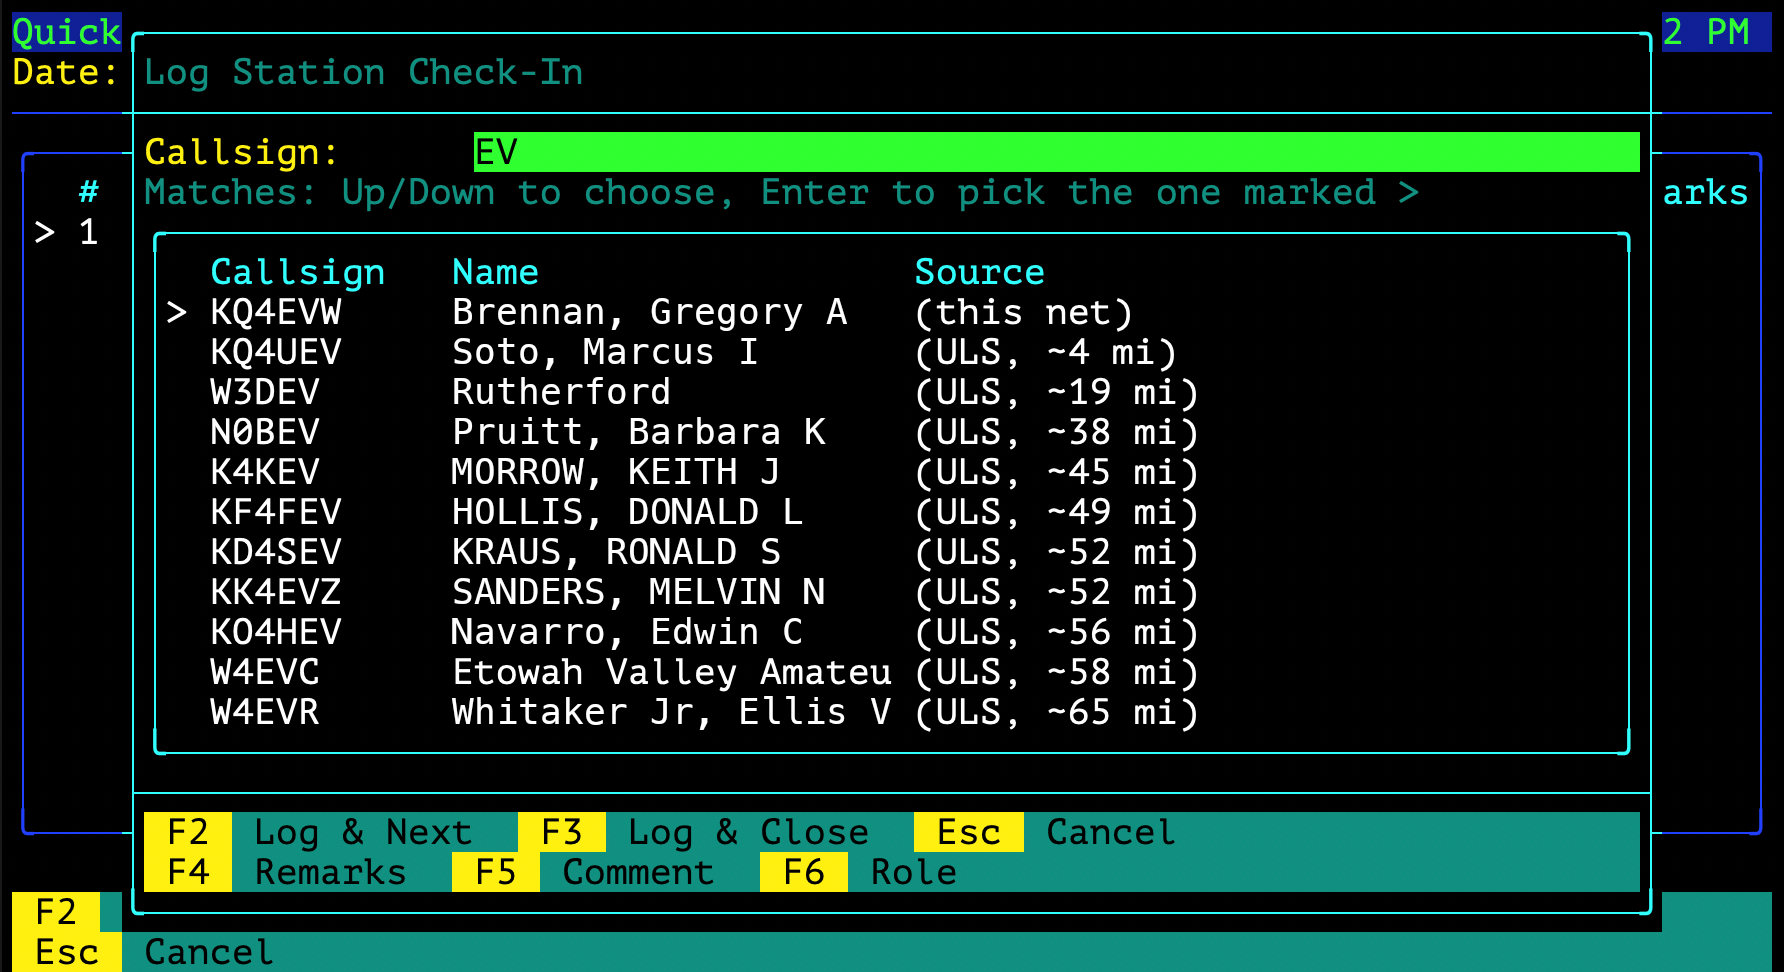
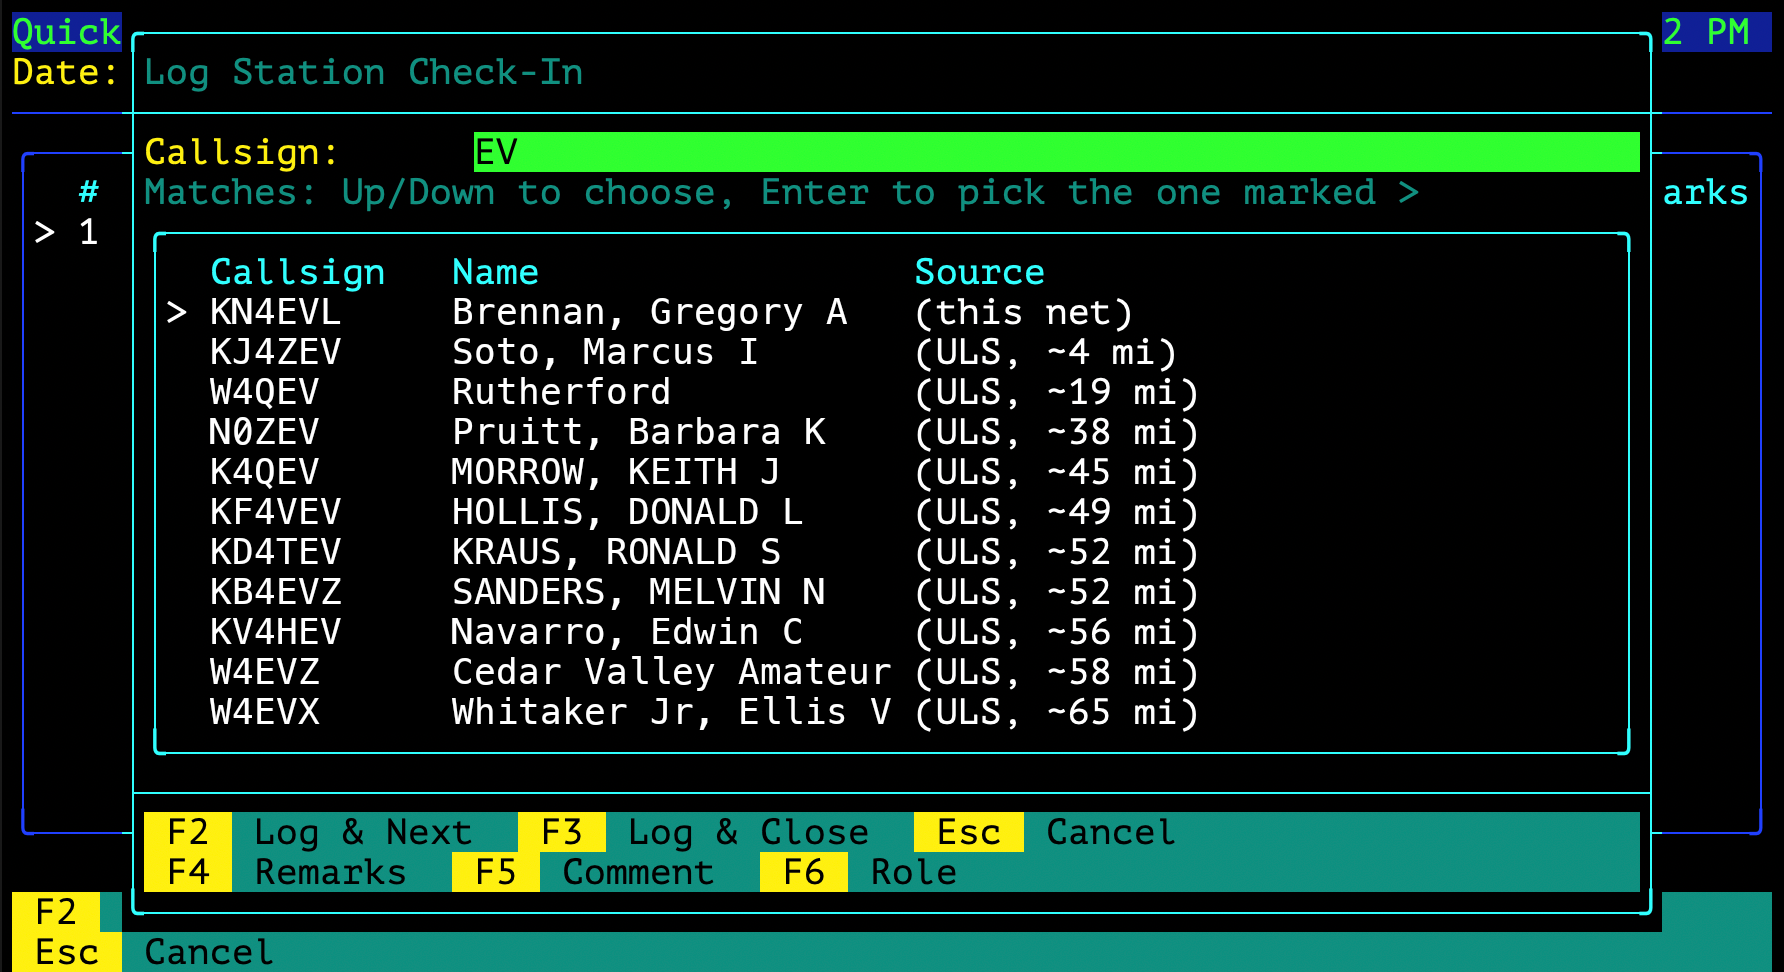
Screenshots: made-up call signs too, none of them licensed
Claude-Session: https://claude.ai/code/session_01E7BQq12YDhHTdYZDAfRETh

Changed region(s): [[0.1233, 0.3086, 0.185, 0.7407], [0.2466, 0.679, 0.4933, 0.7099]]

diff --git a/README.md b/README.md
@@ -14,7 +14,7 @@ Type a few letters of a callsign and QuickLogger offers the stations your net al
 
 ![A net's History: its sessions above, the check-ins of the selected one below](docs/images/screenshot-history.png)
 
-The names and member IDs in these screenshots are made up.
+The call signs, names and member IDs in these screenshots are made up.
 
 ## Why QuickLogger
 

diff --git a/docs/images/README.md b/docs/images/README.md
@@ -2,4 +2,4 @@
 
 Screenshots and GIFs for the README and the guides go here.
 
-The names and member IDs in the screenshots are made up. Call signs are real.
+The call signs, names and member IDs in the screenshots are made up. The call signs follow the FCC format and none is licensed.
